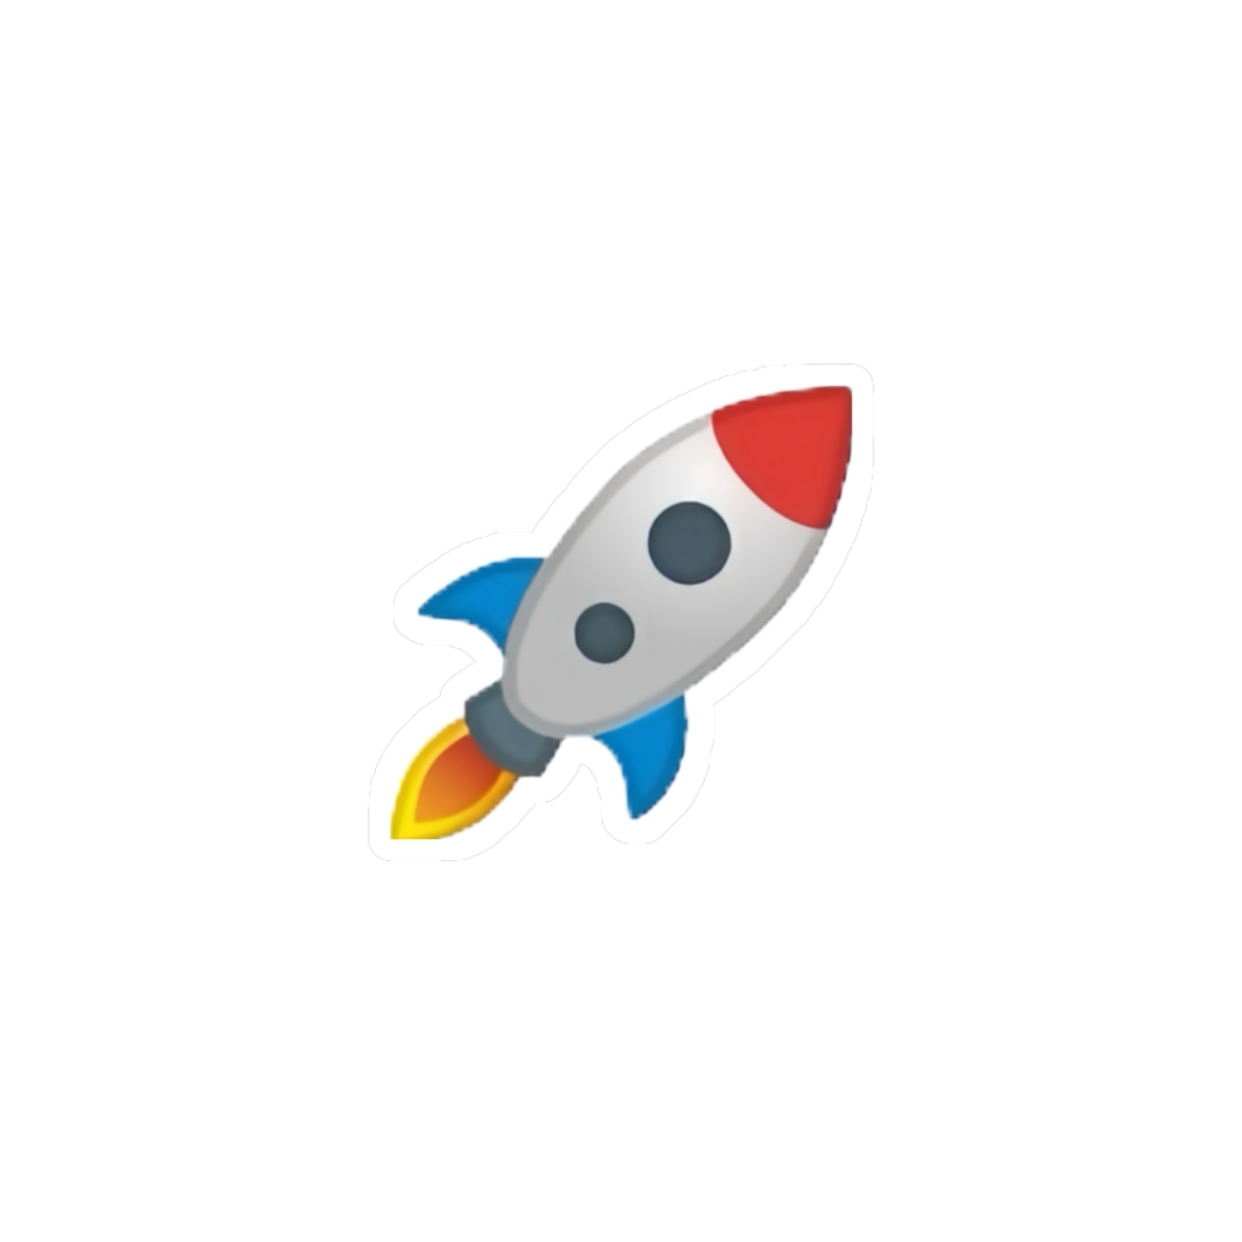
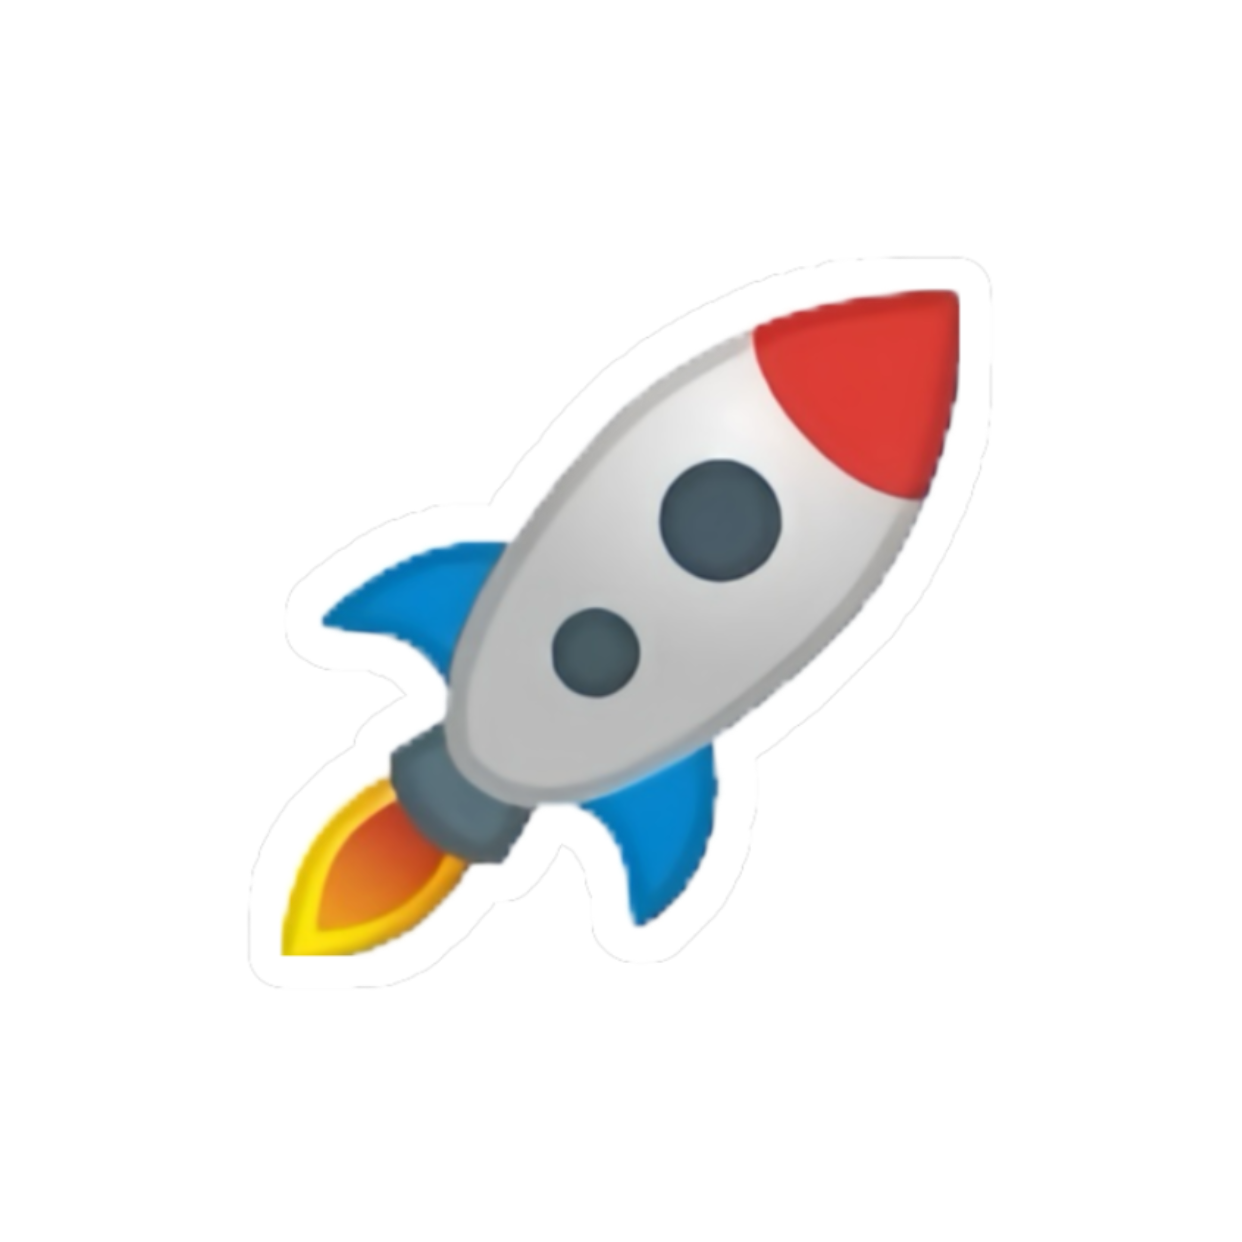
刪除不必要的圖片檔案，更新火箭圖片路徑至新檔案

Changed region(s): [[0.2142, 0.2142, 0.7955, 0.7955]]

diff --git a/setting.py b/setting.py
@@ -75,7 +75,7 @@ class ImagePath:
     LIGHTENING_PATH = os.path.join(IMAGE_DIR, 'lightening.png')
     LIGHTENING_W_PATH = os.path.join(IMAGE_DIR, 'lightening_white.png')
     
-    ROCKET_PATH = os.path.join(IMAGE_DIR, 'rocket.png')
+    ROCKET_PATH = os.path.join(IMAGE_DIR, 'rocket_white.png')
     ROCKET_W_PATH = os.path.join(IMAGE_DIR, 'rocket_white.png')
     
     KISS_PATH = os.path.join(IMAGE_DIR, 'kiss.png')
